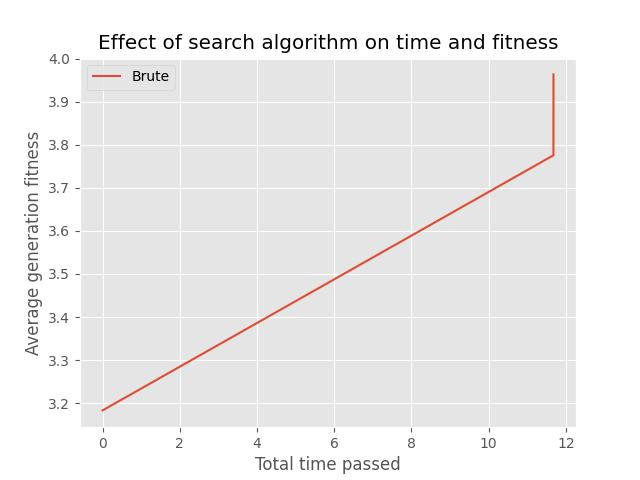
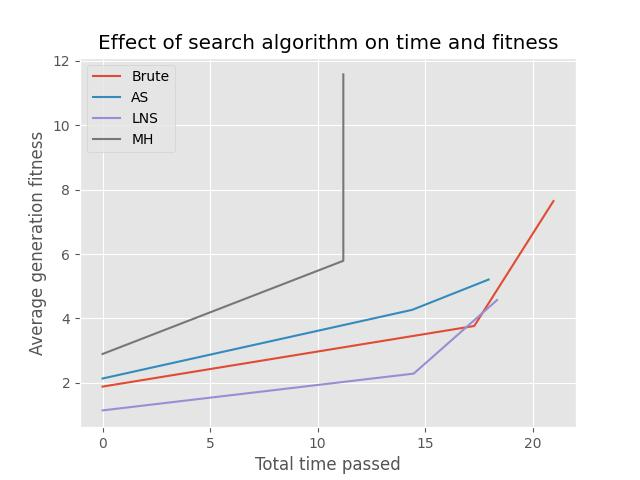
clean up code

diff --git a/language_run_genetic.py b/language_run_genetic.py
@@ -3,32 +3,41 @@ from metasynthesis.programming_language.evolve_language import EvolvingLanguage
 from common.program_synthesis.dsl import StandardDomainSpecificLanguage
 from metasynthesis.programming_language.plot_statistics import LanguageStatistics
 
-domain = "string"
 
-search_setting = ""
-if domain == "pixel":
-    search_setting = "PG"
-elif domain == "robot":
-    search_setting = "RO"
-elif domain == "string":
-    search_setting = "SO"
+def get_search_setting(domain_for_func):
+    search_setting = ""
+    if domain_for_func == "pixel":
+        search_setting = "PG"
+    elif domain_for_func == "robot":
+        search_setting = "RO"
+    elif domain_for_func == "string":
+        search_setting = "SO"
 
-dsl = StandardDomainSpecificLanguage(domain)
+    return search_setting
+
+
+def run_genetic_algorithm_once(domain_for_func):
+    dsl = StandardDomainSpecificLanguage(domain)
+
+    genetic = EvolvingLanguage(fitness_limit=1,
+                               generation_limit=5,
+                               crossover_probability=0.8,
+                               mutation_probability=0.3,
+                               elite_genomes=2,
+                               generation_size=6,  # 10, 34
+                               dsl=dsl,
+                               search_setting=get_search_setting(domain_for_func),
+                               max_search_time=0.1,
+                               search_mode="debug",  # set to "eval" for final, "debug" for debugging
+                               search_algo="Brute",
+                               print_stats=True)
+    genetic.run_evolution()
+
 
 if __name__ == '__main__':
+    domain = "string"
 
-    # genetic = EvolvingLanguage(fitness_limit=1,
-    #                            generation_limit=5,
-    #                            crossover_probability=0.8,
-    #                            mutation_probability=0.3,
-    #                            elite_genomes=2,
-    #                            generation_size=6,  # 10, 34
-    #                            dsl=dsl,
-    #                            search_setting=search_setting,
-    #                            max_search_time=0.1,
-    #                            search_mode="debug",  # set to "eval" for final, "debug" for debugging
-    #                            search_algo="Brute")
-    # genetic.run_evolution()
+    # run_genetic_algorithm_once(domain)
 
     stats = LanguageStatistics(domain=domain, print_stats=True)
 

diff --git a/metasynthesis/programming_language/plot_statistics.py b/metasynthesis/programming_language/plot_statistics.py
@@ -27,8 +27,7 @@ class LanguageStatistics:
     def plot_search_algorithm_performance(self):
         plt.style.use('ggplot')  # ggplot
 
-        # search_algorithms = ["Brute", "AS", "LNS", "MH"]
-        search_algorithms = ["Brute"]
+        search_algorithms = ["Brute", "AS", "LNS", "MH"]
 
         general_genetic = EvolvingLanguage(max_search_time=self.best_parameters["max_search_time"],
                                            generation_size=self.best_parameters["generation_size"])
@@ -55,11 +54,6 @@ class LanguageStatistics:
             cumulative_generation_times = [sum(generation_times[0:i[0]]) for i in enumerate(generation_times)]
 
             plt.plot(cumulative_generation_times, average_fitness_values, label=algorithm)
-
-            # time_taken = all_results["Total time taken"]
-            # num_explored_languages = all_results["Explored languages"]
-            #
-            # plt.scatter(time_taken, num_explored_languages, label=algorithm)
 
         plt.xlabel("Total time passed")
         plt.ylabel("Average generation fitness")
